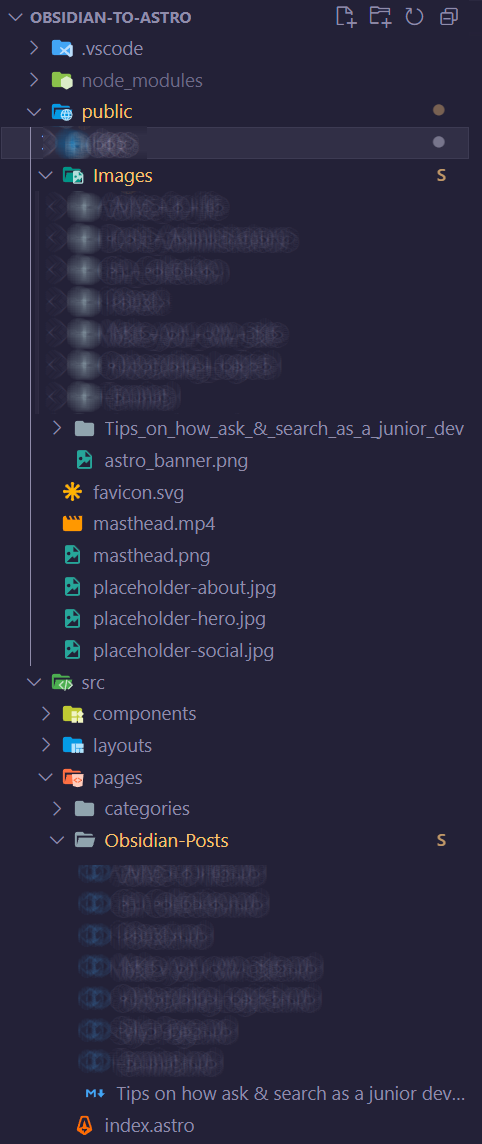
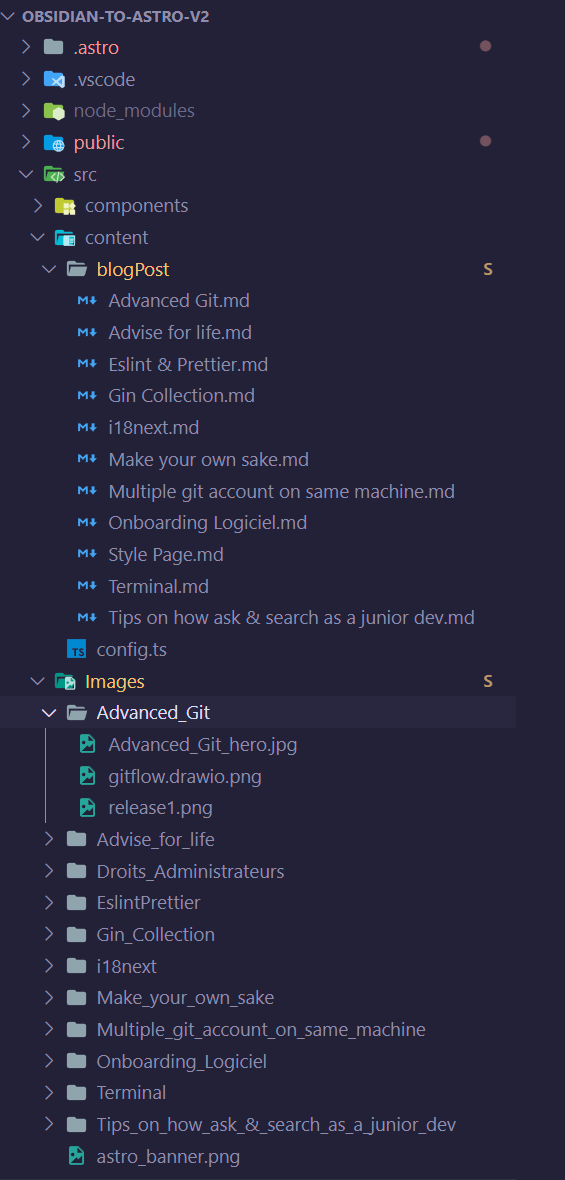
Updating readMe

diff --git a/README.md b/README.md
@@ -1,9 +1,14 @@
 # Zettlekasten to Astro
 © 2021 Guillaume Excoffier. All rights reserved.
 
-## WARNING ⚠
+## New ! 🆕
 
-This project is working but I started it when Astro was only on version 1. I would highly recommend now to pass to version 2 and use Content collection as it provides a better type safety and overall better developer experience. I will most likely refactor this website once astro is at version 3 or that some key new functionnality are no longer experimental ( image optimisation of assets in particular). Cheers !
+I recently upgraded this project from Astro 1.0 to Astro 3.0 ! 🎊
+
+Here is a small recap of the key improvements from bumping up to version 3.0 :
+- Content collections : In version 1 you had to manually import files in order to use them. It is not the case anymore, you can use this built in feature. Also it provides type safety when accessing the frontmatter ! An overall great improvement on the developper experience side 💻, you can learn more about all the great possibilities about content collections [here](https://docs.astro.build/en/guides/content-collections/).
+- Image Optimisation : Instead of using the public repository, you now compute them directly and optimize them in the src directory. It really simplifies the process of handling images optimize by default images inside the body of markdown files as long as they are located in the src folder ! It is probably the main reason I upgraded to 3.0. Really excited about this feature ! You can learn more about images in Astro [here](https://docs.astro.build/en/guides/images/).
+- View Transition : While keeping the app in a SSR/SSG rendering patern, we are now able to add transition in between pages. Improve greatly the use experience. It was made possible with the addition of `::view-transition` to css (still experimental). Learn more about transitions [here](https://docs.astro.build/en/guides/view-transitions/).
 ## 🧾Context
 
 This project have the goal of exposing my obsidian notes to the web. The idea of developping such a tool came to me when i saw a video of [Takuya Matsuyama](https://github.com/craftzdog) :
@@ -22,17 +27,18 @@ Inside of your Astro project, you'll see the following folders and files:
 
 ```
 ├── public/
+├── src/
 │   └── Images/
 │        ├──[Project_1]
 │        │       ├──Image1.png
 │        │       └──Image2.png
 │        ├──[Project_2]
 │        └──[Project_n]
-├── src/
 │   ├── components/
 │   ├── layouts/
-│   └── pages/
-│    	└── Obsidian-Posts
+│   ├── pages/
+│   └── content/
+│    	└── blogPost
 │               └──Project_1.md
 ├── astro.config.mjs
 ├── README.md
@@ -40,9 +46,9 @@ Inside of your Astro project, you'll see the following folders and files:
 └── tsconfig.json
 ```
 
-Astro looks for `.astro` or `.md` files in the `src/pages/` directory. Each page is exposed as a route based on its file name.
+Astro looks for `.astro` or `.md` files in the `src/content/` directory. Each page is exposed as a route based on its file name.
 
-Each `.md` file have a dedicated folder in the `public/Images` folder where you can store your static assets so that those dont get mixed up.
+Each `.md` file have a dedicated folder in the `src/Images` folder where you can store your static assets so that those dont get mixed up. It is stored in src to have image optimization.
 
 ## 🧞 Commands
 
@@ -85,14 +91,13 @@ This template will have to be added to every note you wich to expose. It will le
 
 ```md
 ---
- 
-layout: '../../layouts/BlogPost.astro'
+
 title: {{title}}
 description: 
 date: {{date}} {{time}}
 tags: 
 - 
-heroImage: /Images/{{title}}/{{title}}_hero.png
+heroImage: ../../Images/{{title}}/{{title}}_hero.png
 
 ---
 
@@ -112,11 +117,12 @@ Once you have your template you wont need to touch it.
 - Inside the Permanent Note folder, create the new file & use the template.
 - Create a folder that have the same name as your new note in the Images folder at the root of you vault. 
   - ⚠Make sure to not use space and replace them with `_` ⚠
+  - ⚠Make sure to not use special character (such as `&, \, etc`) in the images name or path ! As of now the optimization library escape those character and break the image optimization. ⚠
 - Make some modification to the auto generated metadatas. 
   - Description
   - tags
   - heroImage ( Image that will be used to illustrate your topic)
-    - Make sure to change the path name to correspond to your image folder of this note ! 
+    - Make sure to change the path name to correspond to your image folder of this note ! Also on the beginning of every path add `../../`. It will work the same inside obsidian and is a requirement for the path in the astro structure. I'm trying to find a better alternative for it. 
 
 Below is an example of post, yours should have a similar structure :
 
@@ -124,7 +130,7 @@ Below is an example of post, yours should have a similar structure :
 
 Every time you wish to refer to an image for the page, your will have to follow this structure :
 
-`/Images/[Project_name]/[Image_name]` 
+`../../Images/[Project_name]/[Image_name]` 
 
 It will be important once it is deployed to Astro.
 
